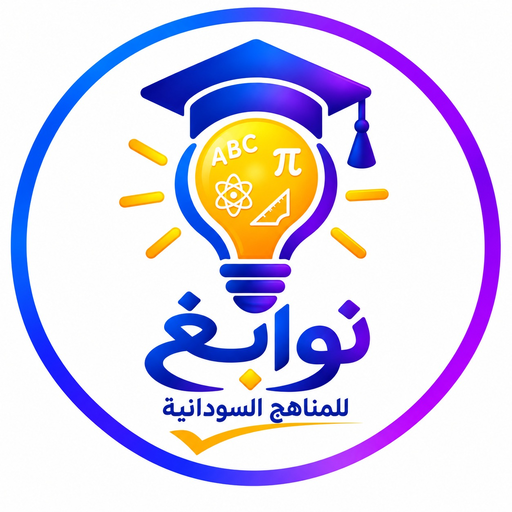
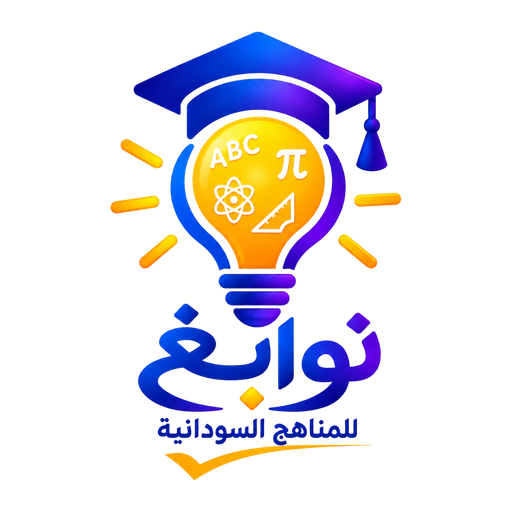
شعار نوابغ الرسمي الشفاف، رسالة الدعوة الجديدة، وخلط خيارات الاختبارات عشوائيًا

Changed region(s): [[0.0, 0.0, 1.0, 0.9688], [0.25, 0.0938, 0.4375, 0.1875]]

diff --git a/src/routes/lesson.$lessonId.tsx b/src/routes/lesson.$lessonId.tsx
@@ -14,6 +14,7 @@ import { supabase } from "@/integrations/supabase/client";
 import { useQueryClient } from "@tanstack/react-query";
 import { playAppSound } from "@/lib/sound";
 import { LessonFlashcards } from "@/components/lesson-flashcards";
+import { shuffleQuizOptions } from "@/lib/shuffle-options";
 
 export const Route = createFileRoute("/lesson/$lessonId")({
   validateSearch: z.object({ tab: z.enum(["explain", "summary", "cards", "quiz"]).optional() }),
@@ -45,6 +46,8 @@ function LessonPage() {
   const [tab, setTab] = useState<(typeof tabs)[number]["id"]>(search.tab ?? "explain");
   const [answers, setAnswers] = useState<Record<number, number>>({});
   const [blocked, setBlocked] = useState(false);
+  const [attempt, setAttempt] = useState(0);
+  const [shuffled, setShuffled] = useState<{ key: string; quiz: NonNullable<typeof data>["lesson"]["quiz"] } | null>(null);
   const freeAccess = data?.lesson.freeAccess;
 
   useEffect(() => {
@@ -62,6 +65,13 @@ function LessonPage() {
     });
     return () => { active = false; };
   }, [lessonId, session, data, freeAccess, isSuper, isAdmin, queryClient, refresh]);
+
+  const quizSource = data?.lesson.quiz;
+  const quizKey = data ? `${data.lesson.id}:${attempt}:${data.lesson.quiz.length}` : "";
+  useEffect(() => {
+    if (quizSource) setShuffled({ key: quizKey, quiz: shuffleQuizOptions(quizSource) });
+    // eslint-disable-next-line react-hooks/exhaustive-deps
+  }, [quizKey]);
 
   if (isDbId(lessonId) && live.isLoading) {
     return (
@@ -81,7 +91,8 @@ function LessonPage() {
     );
   }
 
-  const { lesson, subject, unit } = data;
+  const { lesson: rawLesson, subject, unit } = data;
+  const lesson = shuffled?.key === `${rawLesson.id}:${attempt}:${rawLesson.quiz.length}` ? { ...rawLesson, quiz: shuffled.quiz } : rawLesson;
   const done = state.completedLessons.includes(lesson.id);
   const score = lesson.quiz.reduce((n, q, i) => n + (answers[i] === q.correct ? 1 : 0), 0);
   const answered = Object.keys(answers).length;
@@ -220,7 +231,7 @@ function LessonPage() {
           {answered > 0 && (
             <button
               type="button"
-              onClick={() => setAnswers({})}
+              onClick={() => { setAnswers({}); setAttempt((n) => n + 1); }}
               className="press flex items-center justify-center gap-2 rounded-2xl border border-border bg-card py-3 text-sm font-bold"
             >
               <RotateCcw className="size-4" /> إعادة الاختبار

diff --git a/src/routes/quizzes.$subjectId.tsx b/src/routes/quizzes.$subjectId.tsx
@@ -14,6 +14,7 @@ import { supabase } from "@/integrations/supabase/client";
 import { Button } from "@/components/ui/button";
 import { cn } from "@/lib/utils";
 import { playAppSound } from "@/lib/sound";
+import { shuffleQuizOptions } from "@/lib/shuffle-options";
 
 export const Route = createFileRoute("/quizzes/$subjectId")({
   validateSearch: z.object({ mode: z.enum(["exam", "units"]).optional(), exam: z.string().uuid().optional() }),
@@ -139,8 +140,12 @@ function SubjectExam({ subject, examId }: { subject: Subject; examId?: string | 
   } />;
 }
 
-function ExamRunner({ subject, title, questions, selector }: { subject: Subject; title: string; questions: ExamQuestion[]; selector: React.ReactNode }) {
+function ExamRunner({ subject, title, questions: source, selector }: { subject: Subject; title: string; questions: ExamQuestion[]; selector: React.ReactNode }) {
   const { state } = useApp();
+  const [attempt, setAttempt] = useState(0);
+  const [questions, setQuestions] = useState<ExamQuestion[]>(source);
+  useEffect(() => { setQuestions(shuffleQuizOptions(source));   // eslint-disable-next-line react-hooks/exhaustive-deps
+  }, [title, source.length, attempt]);
   const [i, setI] = useState(0);
   const [picked, setPicked] = useState<number | null>(null);
   const [score, setScore] = useState(0);
@@ -163,7 +168,7 @@ function ExamRunner({ subject, title, questions, selector }: { subject: Subject;
           <p className="text-sm text-muted-foreground">انتهى الاختبار</p>
           <button
             type="button"
-            onClick={() => { setI(0); setPicked(null); setScore(0); }}
+            onClick={() => { setI(0); setPicked(null); setScore(0); setAttempt((n) => n + 1); }}
             className="press gradient-hero mt-2 flex items-center gap-2 rounded-2xl px-6 py-3 font-bold text-primary-foreground"
           >
             <RotateCcw className="size-4" /> اختبار جديد

diff --git a/src/lib/shuffle-options.ts b/src/lib/shuffle-options.ts
@@ -1,0 +1,29 @@
+type McQuestion = { options: string[]; correct: number };
+
+function shuffleInPlace<T>(arr: T[], rand: () => number): T[] {
+  for (let i = arr.length - 1; i > 0; i--) {
+    const j = Math.floor(rand() * (i + 1));
+    [arr[i], arr[j]] = [arr[j] as T, arr[i] as T];
+  }
+  return arr;
+}
+
+/**
+ * Shuffles each question's options at display time. Correct-answer positions are
+ * drawn from a balanced, shuffled pool so long exams spread answers evenly across
+ * أ/ب/ج/د; `correct` is recomputed so grading follows the answer text.
+ */
+export function shuffleQuizOptions<Q extends McQuestion>(questions: Q[], rand: () => number = Math.random): Q[] {
+  const pool: number[] = [];
+  questions.forEach((q, i) => pool.push(i % Math.max(1, q.options.length)));
+  shuffleInPlace(pool, rand);
+  return questions.map((q, i) => {
+    const n = q.options.length;
+    if (n < 2 || q.correct < 0 || q.correct >= n) return q;
+    const target = (pool[i] ?? 0) % n;
+    const others = shuffleInPlace(q.options.filter((_, k) => k !== q.correct), rand);
+    const options = [...others];
+    options.splice(target, 0, q.options[q.correct] as string);
+    return { ...q, options, correct: target };
+  });
+}

diff --git a/src/lib/shuffle-options.test.ts b/src/lib/shuffle-options.test.ts
@@ -1,0 +1,24 @@
+import { describe, expect, it } from "vitest";
+import { shuffleQuizOptions } from "./shuffle-options";
+
+const qs = Array.from({ length: 40 }, (_, i) => ({ q: `s${i}`, options: [`right${i}`, "w1", "w2", "w3"], correct: 0 }));
+
+describe("shuffleQuizOptions", () => {
+  it("keeps the correct answer text linked to the correct index", () => {
+    for (const q of shuffleQuizOptions(qs)) expect(q.options[q.correct]).toMatch(/^right/);
+  });
+  it("spreads correct answers evenly over all four positions", () => {
+    const counts = [0, 0, 0, 0];
+    for (const q of shuffleQuizOptions(qs)) counts[q.correct]!++;
+    expect(counts).toEqual([10, 10, 10, 10]);
+  });
+  it("keeps the same four options", () => {
+    const [q] = shuffleQuizOptions([qs[0]!]);
+    expect([...q!.options].sort()).toEqual([...qs[0]!.options].sort());
+  });
+  it("changes order between attempts", () => {
+    const a = shuffleQuizOptions(qs).map((q) => q.correct).join();
+    const b = shuffleQuizOptions(qs).map((q) => q.correct).join();
+    expect(a).not.toEqual(b);
+  });
+});
